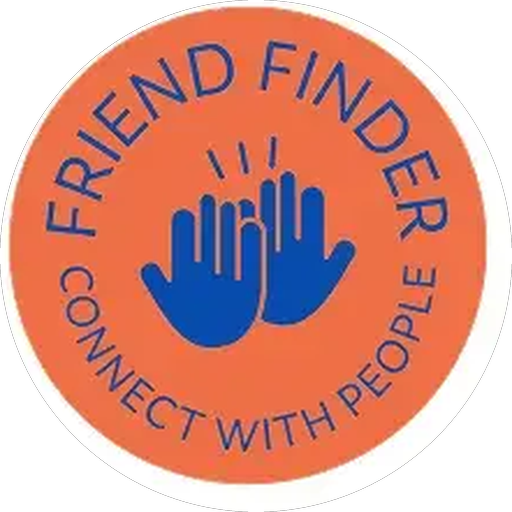
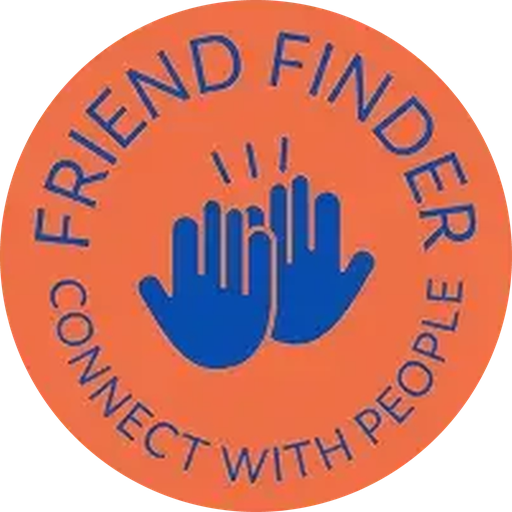
Friend Finder-logoet beskaaret til kanten af cirklen — hvid ring vaek

diff --git a/nyt/index.html b/nyt/index.html
@@ -540,7 +540,7 @@ button{font-family:inherit}
 				<a class="thing" data-app="wordfestival" href="#"><span class="thing__m"><img src="img/word-festival-cover.webp" alt=""></span><span class="thing__t">Word Festival</span><span class="thing__s"><i style="background:var(--neon-blue)"></i>Programplanlægger · Figma</span><span class="thing__go">Åbn →</span></a>
 				<a class="thing" data-case="hosted" href="#"><span class="thing__m"><img src="img/hosted-cover.webp" alt=""></span><span class="thing__wip">I gang</span><span class="thing__t">HOSTED</span><span class="thing__s"><i style="background:#CFF70E"></i>Eget produkt · app under udvikling</span><span class="thing__go">Åbn →</span></a>
 				<a class="thing" data-case="dualitet" href="#"><span class="thing__m"><img src="img/dualitet-cover.webp" alt=""></span><span class="thing__wip">I gang</span><span class="thing__t">Dualitet</span><span class="thing__s"><i style="background:var(--neon-green)"></i>Podcast · under optagelse</span><span class="thing__go">Åbn →</span></a>
-				<a class="thing" data-app="friendfinder" href="#"><span class="thing__m"><img src="img/friend-finder-logo.webp" alt=""></span><span class="thing__t">Friend Finder</span><span class="thing__s"><i style="background:var(--neon-blue)"></i>Prototype · workshop</span><span class="thing__go">Åbn →</span></a>
+				<a class="thing" data-app="friendfinder" href="#"><span class="thing__m"><img src="img/friend-finder-logo.png" alt=""></span><span class="thing__t">Friend Finder</span><span class="thing__s"><i style="background:var(--neon-blue)"></i>Prototype · workshop</span><span class="thing__go">Åbn →</span></a>
 			</div>
 		</div>
 		<span class="grip grip--w"></span><span class="grip grip--e"></span><span class="grip grip--s"></span><span class="grip grip--se"></span><span class="grip grip--sw"></span>
